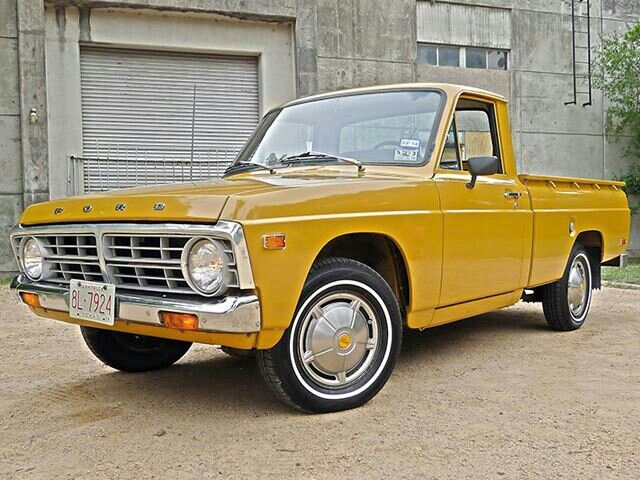
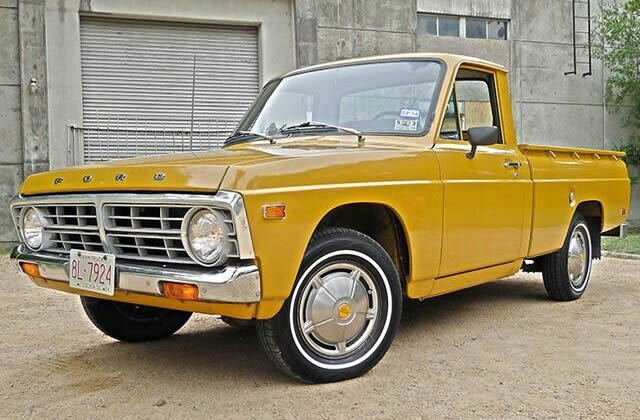
substituindo fotos e ajustando no site

diff --git a/index.html b/index.html
@@ -43,14 +43,14 @@
         #fotos {
             display: inline-block;
             width: 400px;
-            padding: 0px;
+            padding: 0px 40px 0px 0px;
             margin: auto;
         }
 
         #comentarios {
             display: inline-block;
             width: 400px;
-            padding: 0px;
+            padding: 0px 40px 0px 0px;
             margin: 0px;
             font-style: italic;
         }
@@ -77,7 +77,7 @@
                             <img src="imagens/FordCourier.jpg" alt="ford courier" id="fotos">
                         </div>
                         <div id="fotos">
-                            <img src="imagens/ranger1gen.jfif" alt="ford ranger 1 gen" id="fotos">
+                            <img src="imagens/Ranger1gen3.png" alt="ford ranger 1 gen" id="fotos">
                         </div>
                         <div id="comentarios">
                             <p id="legenda">
